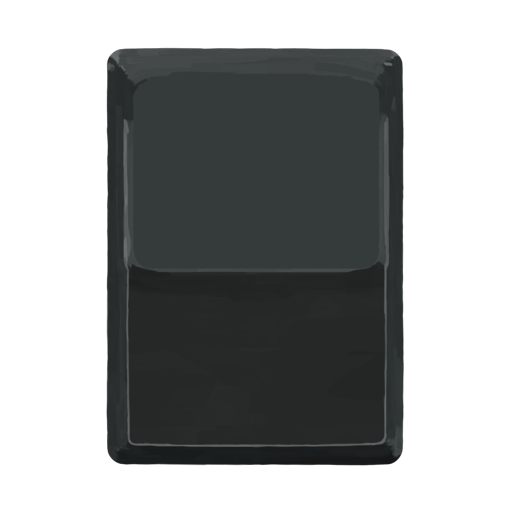
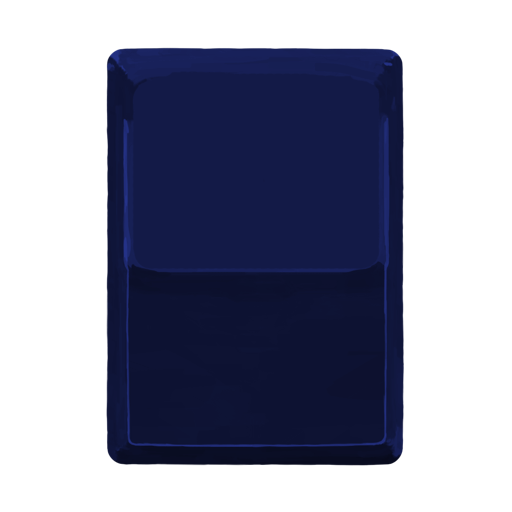
Added navy color, rework for Daily Reminders for La Cabra synergy

diff --git a/ScheduleMod/src/main/java/schedulemod/cards/navy/DailyReminders.java b/ScheduleMod/src/main/java/schedulemod/cards/navy/DailyReminders.java
@@ -39,10 +39,18 @@ public class DailyReminders extends BaseCard {
     public void use(AbstractPlayer p, AbstractMonster m) {
         addToBot(new DamageAction(m, new DamageInfo(p, this.damage, this.damageTypeForTurn), AbstractGameAction.AttackEffect.SLASH_HORIZONTAL, true));
         ArrayList<EventCard> eventsPlayed = EventsPlayedThisTurnField.eventsPlayedThisTurn.get(AbstractDungeon.actionManager);
+        ArrayList<EventCard> eventsToSchedule = new ArrayList<EventCard>();
         if (eventsPlayed.size() > 0) {
-            EventCard lastEvent = eventsPlayed.get(eventsPlayed.size() - 1);
-            if (lastEvent.triggeringCard == this) {
-              addToBot(new ScheduleEventCard(lastEvent.makeStatEquivalentCopy(), SCHEDULE_SLOT));                
+            for (EventCard event : eventsPlayed) {
+                if (event.triggeringCard == this) {
+                    eventsToSchedule.add(event);
+                }
+            }
+            
+            int offset = eventsToSchedule.size() - 1;
+            for (EventCard event : eventsToSchedule) {
+                addToBot(new ScheduleEventCard(event.makeStatEquivalentCopy(), SCHEDULE_SLOT - offset));    
+                offset--;
             }
         }
     }

diff --git a/ScheduleMod/src/main/java/schedulemod/cards/tempCards/TheSong.java b/ScheduleMod/src/main/java/schedulemod/cards/tempCards/TheSong.java
@@ -11,7 +11,6 @@ import com.megacrit.cardcrawl.characters.AbstractPlayer;
 import com.megacrit.cardcrawl.dungeons.AbstractDungeon;
 import com.megacrit.cardcrawl.monsters.AbstractMonster;
 
-import schedulemod.BasicMod;
 import schedulemod.actions.BirthdayAction;
 import schedulemod.cards.EventCard;
 import schedulemod.character.Entropy;
@@ -27,8 +26,8 @@ public class TheSong extends EventCard {
             CardTarget.ENEMY,
             2);
 
-    private static final int DAMAGE = 10;
-    private static final int DAMAGE_INCREASE = 5;
+    private static final int DAMAGE = 12;
+    private static final int DAMAGE_INCREASE = 4;
     private static final int UPGRADE_DAMAGE_INCREASE = 2;
 
     public TheSong() {

diff --git a/ScheduleMod/src/main/java/schedulemod/powers/AutomationSciencePower.java b/ScheduleMod/src/main/java/schedulemod/powers/AutomationSciencePower.java
@@ -28,7 +28,7 @@ public class AutomationSciencePower extends BasePower implements CloneablePowerI
     @Override
     public void onAttack(DamageInfo info, int damageAmount, AbstractCreature target) {
         if (damageAmount >= REQUIRED_DAMAGE) {
-                addToBot(new ApplyPowerAction(this.owner, this.owner, new PunctualPower(this.owner, this.owner, 1)));
+                addToBot(new ApplyPowerAction(this.owner, this.owner, new PunctualPower(this.owner, this.owner, this.amount)));
         }
     }
 

diff --git a/ScheduleMod/src/main/java/schedulemod/cards/navy/EmergencyCoffee.java b/ScheduleMod/src/main/java/schedulemod/cards/navy/EmergencyCoffee.java
@@ -21,7 +21,7 @@ public class EmergencyCoffee extends BaseCard {
     );
 
     private static final int BLOCK = 6;
-    private static final int EXTRA_EVENTS = 1;
+    private static final int EXTRA_EVENTS = 2;
     private static final int UPGRADE_EXTRA_EVENTS = 1;
 
     public EmergencyCoffee() {
